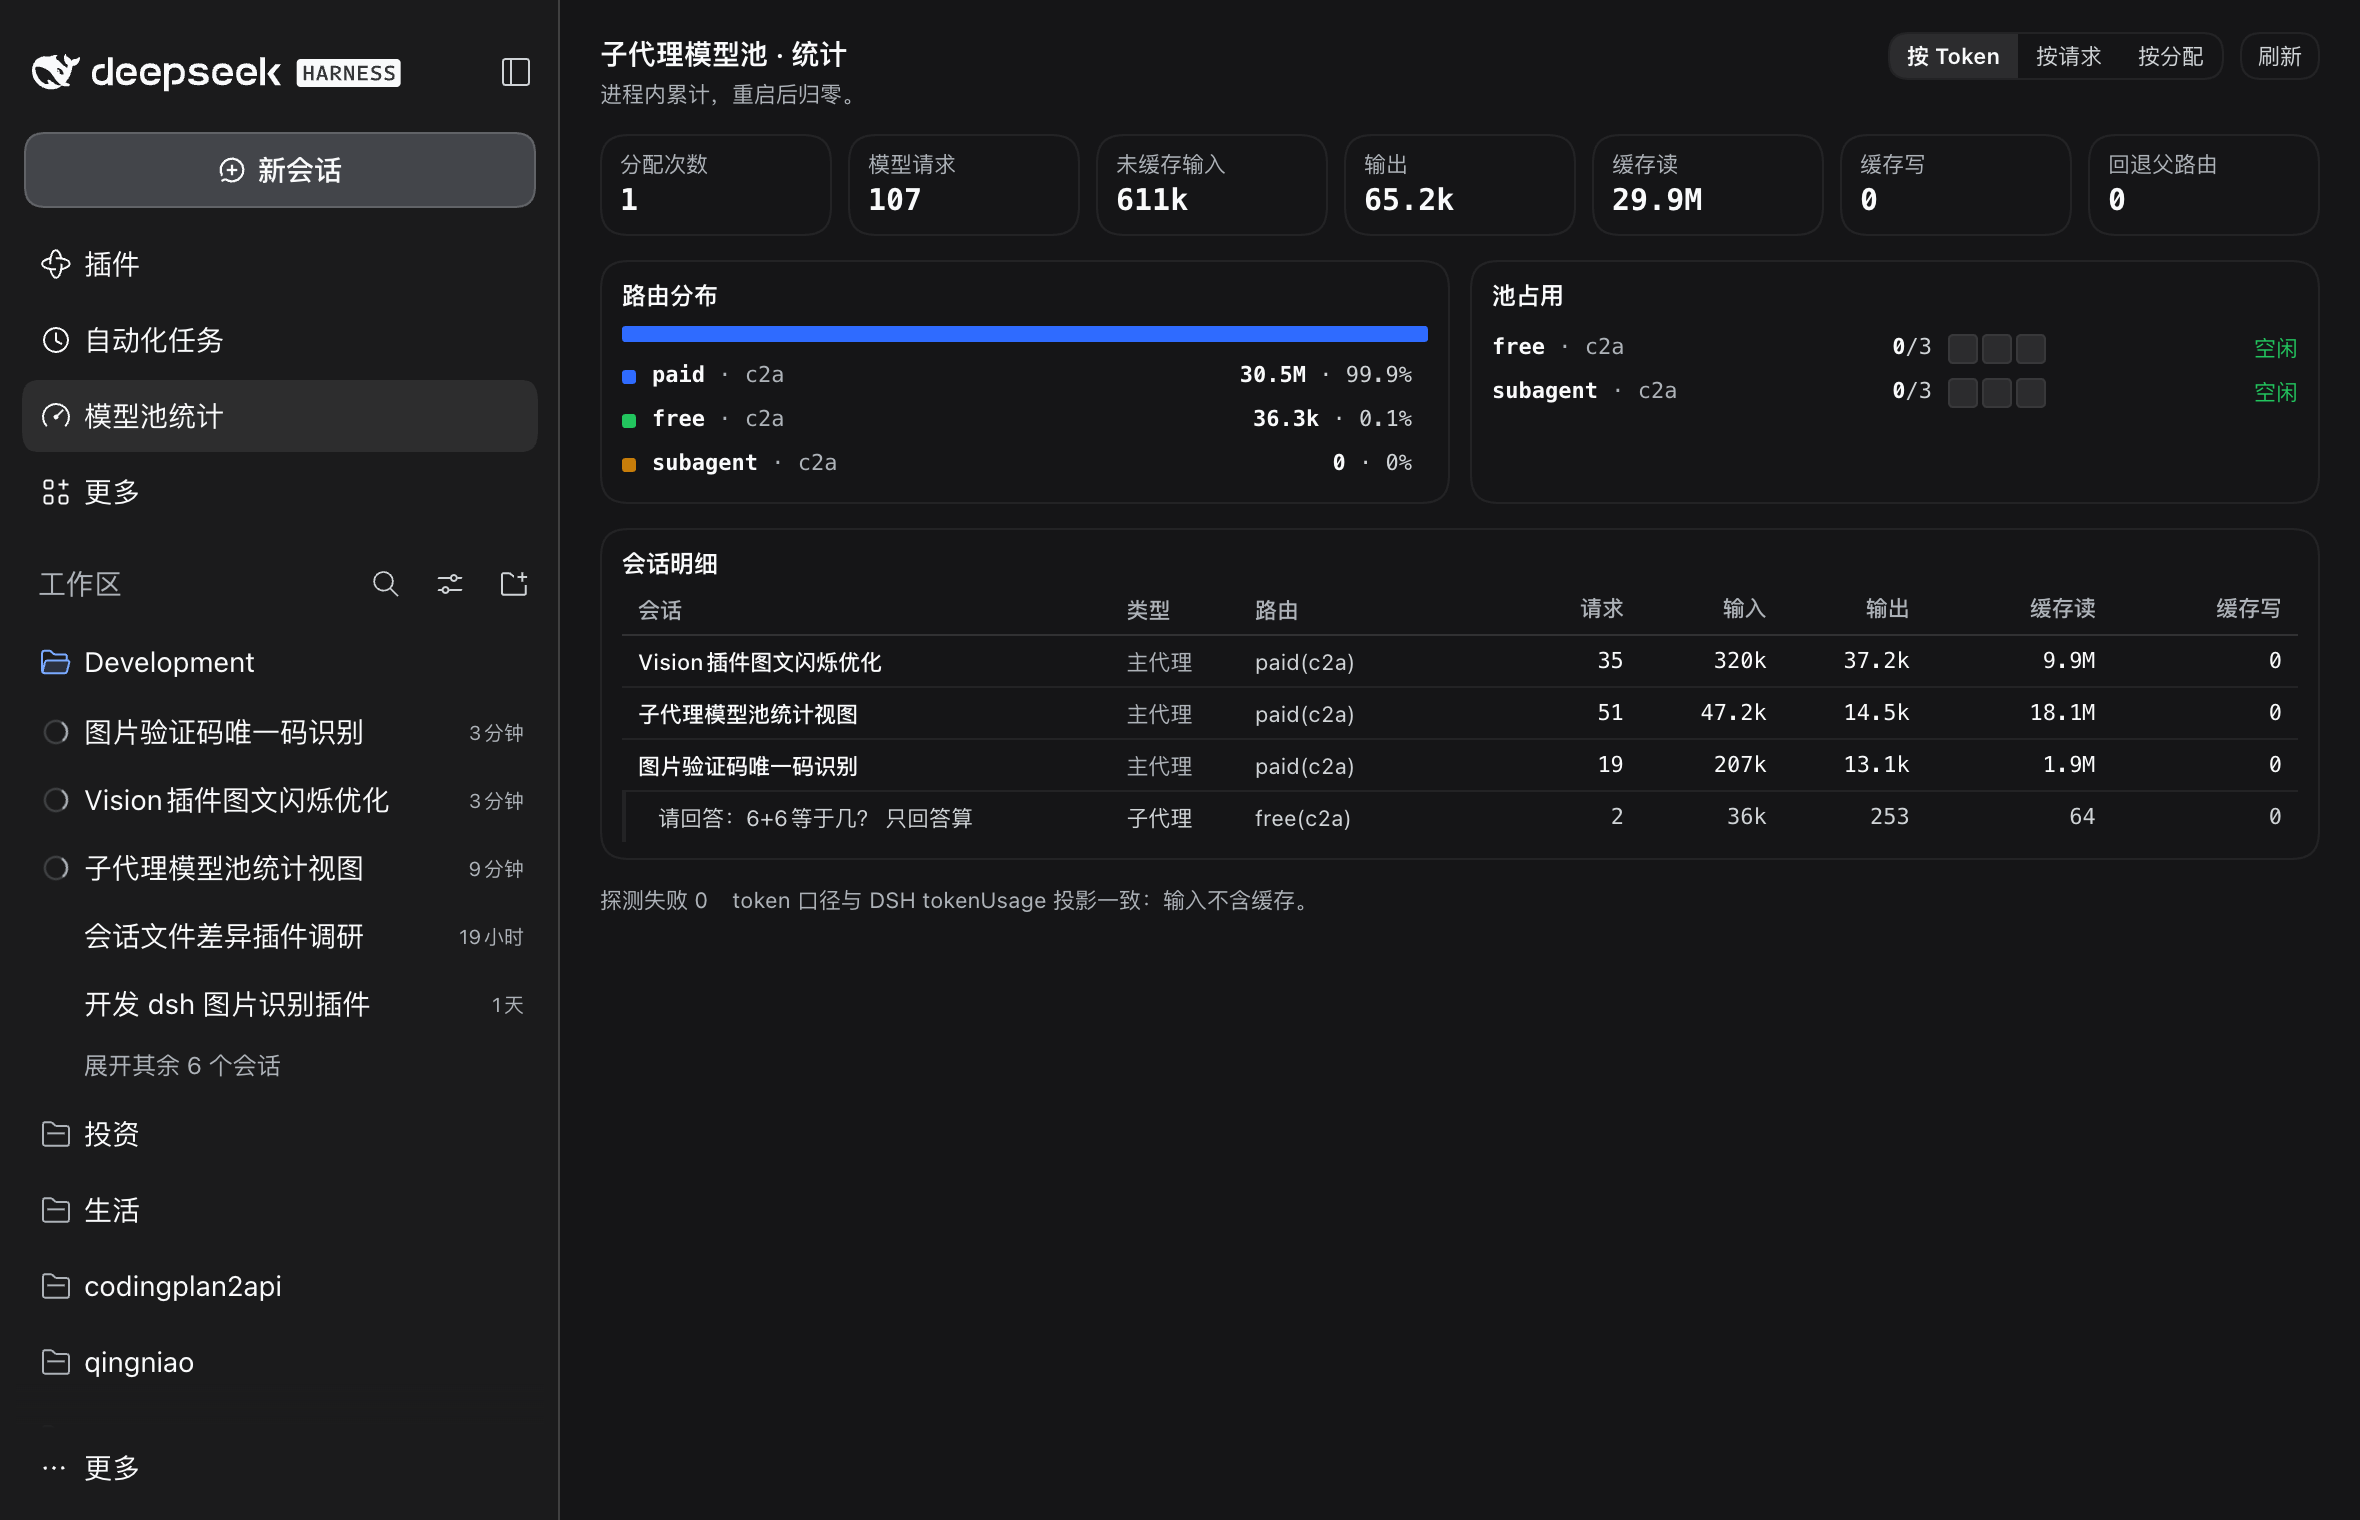
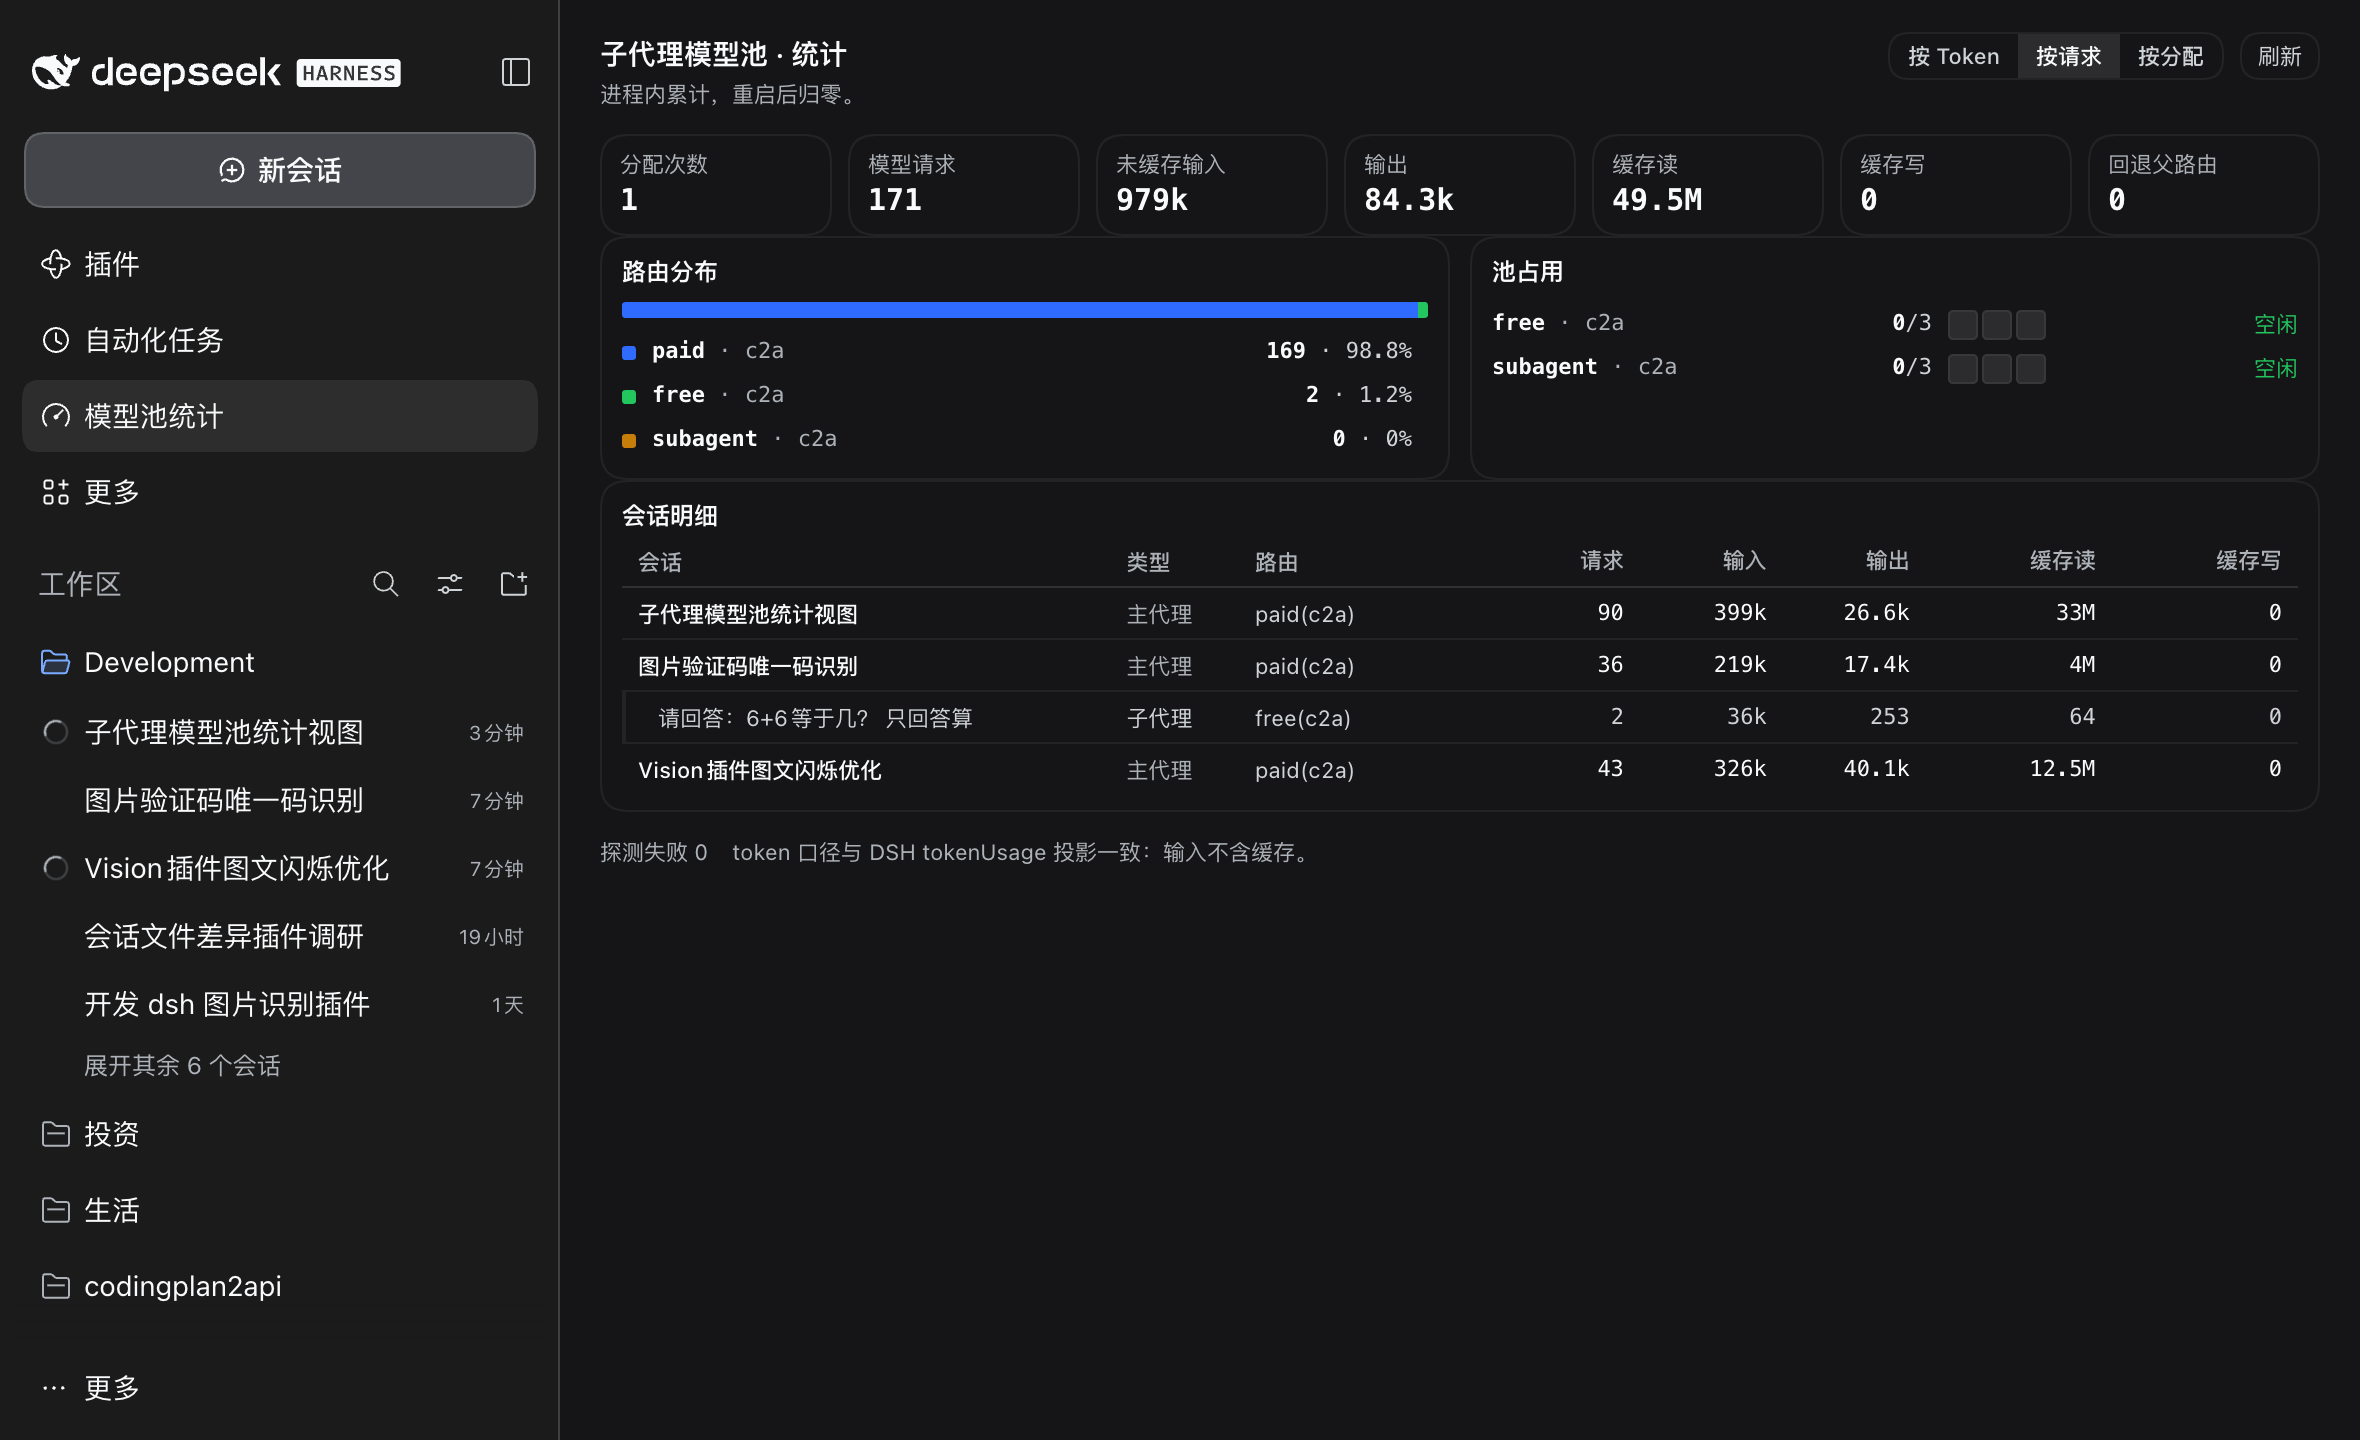
fix: 统计视图动画优化——修分段按钮伸缩与刷新生硬
问题一：切���口径时按钮「拉长又缩小」。
根因：选中态用 font-weight: 600，未选中 400。字重变了文字宽度就变
（实测「按 Token」选中时 64px、未选中 51px）。
修法：所有按钮字重固定 500，选中态只换背景色与文字色。切换前后宽度
完全一致（实测 64/51/51 → 64/51/51）。

问题二：点刷新是生硬替换。
修法：
- 加载态用旋转 spinner 替代「刷新中…」文字（换文字本身也会改宽度）；
- spinner 绝对定位在固定槽位 .smpv-refreshSlot（width:0）里——参与布局
  会把按钮撑宽 18px（实测 40px → 58px）。修后全程恒定 40px；
- 数据区 .smpv-body 用数据版本号当 key，新快照到达时整块 0.22s 淡入；
- 切换口径时路由面板重挂载，触发 0.18s 淡入；
- 按钮加 hover / active / focus-visible 过渡。

另：prefers-reduced-motion 下全部动画关闭（spinner 转速降到 2.4s）。

测试：119 项全绿。

diff --git a/client.js b/client.js
@@ -757,17 +757,33 @@
         ".smpv-title{margin:0;font-size:14px;line-height:20px;font-weight:600}",
         ".smpv-sub{margin:2px 0 0;color:var(--dsw-alias-label-tertiary);font-size:11px;line-height:16px}",
         ".smpv-actions{display:flex;align-items:center;gap:8px}",
-        ".smpv-refresh{border:.5px solid var(--dsw-alias-border-l1);border-radius:var(--dsw-radius-md);background:var(--dsw-alias-background-primary);color:var(--dsw-alias-label-secondary);font-family:inherit;font-size:11px;line-height:16px;padding:3px 8px;cursor:pointer}",
-        ".smpv-refresh:hover:not(:disabled){background:var(--dsw-alias-bg-layer-4)}",
-        ".smpv-refresh:disabled{opacity:.5;cursor:not-allowed}",
+        // 刷新按钮：加载态用旋转图标，文字不变——换文字会改变按钮宽度。
+        ".smpv-refresh{display:inline-flex;align-items:center;border:.5px solid var(--dsw-alias-border-l1);border-radius:var(--dsw-radius-md);background:var(--dsw-alias-background-primary);color:var(--dsw-alias-label-secondary);font-family:inherit;font-size:11px;line-height:16px;padding:3px 8px;cursor:pointer;transition:background-color .16s ease,color .16s ease,border-color .16s ease}",
+        ".smpv-refresh:hover:not(:disabled){background:var(--dsw-alias-bg-layer-4);color:var(--dsw-alias-label-primary);border-color:var(--dsw-alias-border-l2)}",
+        ".smpv-refresh:active:not(:disabled){transform:translateY(.5px)}",
+        ".smpv-refresh:disabled{cursor:default;color:var(--dsw-alias-label-tertiary)}",
+        ".smpv-refresh:focus-visible{outline:1px solid var(--dsw-alias-accent,#2f6bff);outline-offset:1px}",
+        // spinner 绝对定位在文字左侧的固定槽位里——参与布局会把按钮撑宽 18px。
+        ".smpv-refreshSlot{position:relative;width:0;height:11px;flex:none}",
+        ".smpv-spin{position:absolute;left:0;top:0;width:11px;height:11px;border-radius:50%;border:1.5px solid var(--dsw-alias-border-l2);border-top-color:var(--dsw-alias-accent,#2f6bff);animation:smpv-spin .7s linear infinite}",
+        "@keyframes smpv-spin{to{transform:rotate(360deg)}}",
+        "@media (prefers-reduced-motion:reduce){.smpv-spin{animation-duration:2.4s}}",
+        // 数据刷新时整块淡入，避免生硬替换。
+        ".smpv-body{animation:smpv-fade .22s ease-out}",
+        "@keyframes smpv-fade{from{opacity:.55}to{opacity:1}}",
+        "@media (prefers-reduced-motion:reduce){.smpv-body,.smpv-panel,.smpv-cards{animation:none}}",
         ".smpv-cards{display:grid;grid-template-columns:repeat(auto-fit,minmax(92px,1fr));gap:8px}",
         ".smpv-card{border:.5px solid var(--dsw-alias-border-l1);border-radius:var(--dsw-radius-lg);background:var(--dsw-alias-background-primary);padding:6px 9px}",
         ".smpv-cardK{color:var(--dsw-alias-label-tertiary);font-size:11px;line-height:16px}",
         ".smpv-cardV{font-family:var(--dsw-font-mono,ui-monospace,Menlo,monospace);font-variant-numeric:tabular-nums;font-size:15px;line-height:21px;font-weight:600}",
-        ".smpv-switch{display:inline-flex;border:.5px solid var(--dsw-alias-border-l1);border-radius:var(--dsw-radius-md);overflow:hidden}",
-        ".smpv-switchBtn{border:0;background:0;padding:3px 9px;font-family:inherit;font-size:11px;line-height:16px;color:var(--dsw-alias-label-secondary);cursor:pointer}",
-        ".smpv-switchBtn.on{background:var(--dsw-alias-bg-layer-2);color:var(--dsw-alias-label-primary);font-weight:600}",
-        ".smpv-panel{border:.5px solid var(--dsw-alias-border-l1);border-radius:var(--dsw-radius-lg);background:var(--dsw-alias-background-primary);padding:8px 10px}",
+        ".smpv-switch{display:inline-flex;border:.5px solid var(--dsw-alias-border-l1);border-radius:var(--dsw-radius-md);overflow:hidden;position:relative}",
+        // 字重固定：选中态只换背景与文字色。改字重会让文字宽度变化，
+        // 切换时按钮「拉长又缩小」。
+        ".smpv-switchBtn{position:relative;border:0;background:0;padding:3px 9px;font-family:inherit;font-size:11px;line-height:16px;font-weight:500;color:var(--dsw-alias-label-secondary);cursor:pointer;transition:color .16s ease,background-color .16s ease}",
+        ".smpv-switchBtn:hover:not(.on){color:var(--dsw-alias-label-primary);background:var(--dsw-alias-bg-layer-1)}",
+        ".smpv-switchBtn.on{background:var(--dsw-alias-bg-layer-2);color:var(--dsw-alias-label-primary)}",
+        ".smpv-switchBtn:focus-visible{outline:1px solid var(--dsw-alias-accent,#2f6bff);outline-offset:-2px}",
+        ".smpv-panel{border:.5px solid var(--dsw-alias-border-l1);border-radius:var(--dsw-radius-lg);background:var(--dsw-alias-background-primary);padding:8px 10px;animation:smpv-fade .18s ease-out}",
         ".smpv-panelTitle{font-size:12px;line-height:18px;font-weight:600;margin:0 0 6px}",
         ".smpv-grid{display:grid;grid-template-columns:1fr 1fr;gap:10px}",
         ".smpv-stack{margin:0 0 6px}",
@@ -802,7 +818,8 @@
         ".smpv-table tr.parent td:first-child{font-weight:500}",
         ".smpv-sessionTitle{display:block;overflow:hidden;text-overflow:ellipsis;white-space:nowrap}",
         ".smpv-kind{color:var(--dsw-alias-label-tertiary);font-size:10px;line-height:15px}",
-        ".smpv-num{font-family:var(--dsw-font-mono,ui-monospace,Menlo,monospace);text-align:right;font-size:11px}",
+        // 数字在口径切换时突变，给一个轻微淡入，避免生硬跳变。
+        ".smpv-num{font-family:var(--dsw-font-mono,ui-monospace,Menlo,monospace);text-align:right;font-size:11px;transition:opacity .14s ease-out}",
         ".smpv-empty{color:var(--dsw-alias-label-tertiary);font-size:12px;line-height:18px;padding:12px 6px;text-align:center}",
         ".smpv-err{color:var(--dsw-alias-state-error-primary,#d5393a);font-size:12px;line-height:18px;padding:12px 6px}",
         ".smpv-foot{display:flex;gap:12px;flex-wrap:wrap;color:var(--dsw-alias-label-tertiary);font-size:11px;line-height:16px}"
@@ -1171,7 +1188,14 @@
                       className: "smpv-refresh",
                       disabled: state.loading,
                       onClick: state.reload,
-                      children: state.loading ? "刷新中…" : "刷新"
+                      "aria-label": "刷新统计",
+                      children: [
+                        jsx("span", {
+                          className: "smpv-refreshSlot",
+                          children: state.loading ? jsx("i", { className: "smpv-spin" }) : null
+                        }),
+                        "刷新"
+                      ]
                     })
                   ]
                 })
@@ -1179,25 +1203,33 @@
             }),
             state.error ? jsx("div", { className: "smpv-err", children: state.error }) : null,
             jsx("div", {
-              className: "smpv-cards",
+              className: "smpv-body",
+              // key 随数据版本变化：新数据到达时整块淡入，不生硬替换。
+              key: state.version,
               children: [
-                jsx(StatCard, { label: "分配次数", value: formatCount(totals === null ? 0 : totals.assignments) }),
-                jsx(StatCard, { label: "模型请求", value: formatCount(totals === null ? 0 : totals.requests) }),
-                jsx(StatCard, { label: "未缓存输入", value: formatTokens(tokens === null ? 0 : tokens.inputTokens) }),
-                jsx(StatCard, { label: "输出", value: formatTokens(tokens === null ? 0 : tokens.outputTokens) }),
-                jsx(StatCard, { label: "缓存读", value: formatTokens(tokens === null ? 0 : tokens.cacheReadTokens) }),
-                jsx(StatCard, { label: "缓存写", value: formatTokens(tokens === null ? 0 : tokens.cacheWriteTokens) }),
-                jsx(StatCard, { label: "回退父路由", value: formatCount(totals === null ? 0 : totals.fallbacks) })
+                jsx("div", {
+                  className: "smpv-cards",
+                  children: [
+                    jsx(StatCard, { label: "分配次数", value: formatCount(totals === null ? 0 : totals.assignments) }),
+                    jsx(StatCard, { label: "模型请求", value: formatCount(totals === null ? 0 : totals.requests) }),
+                    jsx(StatCard, { label: "未缓存输入", value: formatTokens(tokens === null ? 0 : tokens.inputTokens) }),
+                    jsx(StatCard, { label: "输出", value: formatTokens(tokens === null ? 0 : tokens.outputTokens) }),
+                    jsx(StatCard, { label: "缓存读", value: formatTokens(tokens === null ? 0 : tokens.cacheReadTokens) }),
+                    jsx(StatCard, { label: "缓存写", value: formatTokens(tokens === null ? 0 : tokens.cacheWriteTokens) }),
+                    jsx(StatCard, { label: "回退父路由", value: formatCount(totals === null ? 0 : totals.fallbacks) })
+                  ]
+                }),
+                jsx("div", {
+                  className: "smpv-grid",
+                  children: [
+                    // key 含口径：切换口径时整块重挂载，触发淡入动画。
+                    jsx(RoutePanel, { key: "route-" + mode, ranked: ranked, mode: mode }),
+                    jsx(SlotPanel, { routes: snapshot === null ? [] : snapshot.routes })
+                  ]
+                }),
+                jsx(SessionTable, { sessions: snapshot === null ? [] : snapshot.sessions })
               ]
             }),
-            jsx("div", {
-              className: "smpv-grid",
-              children: [
-                jsx(RoutePanel, { ranked: ranked, mode: mode }),
-                jsx(SlotPanel, { routes: snapshot === null ? [] : snapshot.routes })
-              ]
-            }),
-            jsx(SessionTable, { sessions: snapshot === null ? [] : snapshot.sessions }),
             jsx("div", {
               className: "smpv-foot",
               children: [
@@ -1223,6 +1255,8 @@
         var error = null;
         var loading = false;
         var controller = null;
+        // 数据版本号：每次新快照到达递增。渲染层用它当 key，让整块淡入。
+        var version = 0;
         var notify = function () {
           listeners.forEach(function (listener) { listener(); });
         };
@@ -1239,13 +1273,14 @@
               error = "读取统计失败：宿主接口不可用。";
             } else {
               snapshot = value;
+              version += 1;
             }
             notify();
           });
         };
         return {
           getSnapshot: function () {
-            return { snapshot: snapshot, error: error, loading: loading };
+            return { snapshot: snapshot, error: error, loading: loading, version: version };
           },
           subscribe: function (listener) {
             listeners.push(listener);
@@ -1279,6 +1314,7 @@
             snapshot: state[0].snapshot,
             error: state[0].error,
             loading: state[0].loading,
+            version: state[0].version,
             mode: modeState[0],
             setMode: modeState[1],
             reload: function () { source.load(); }
